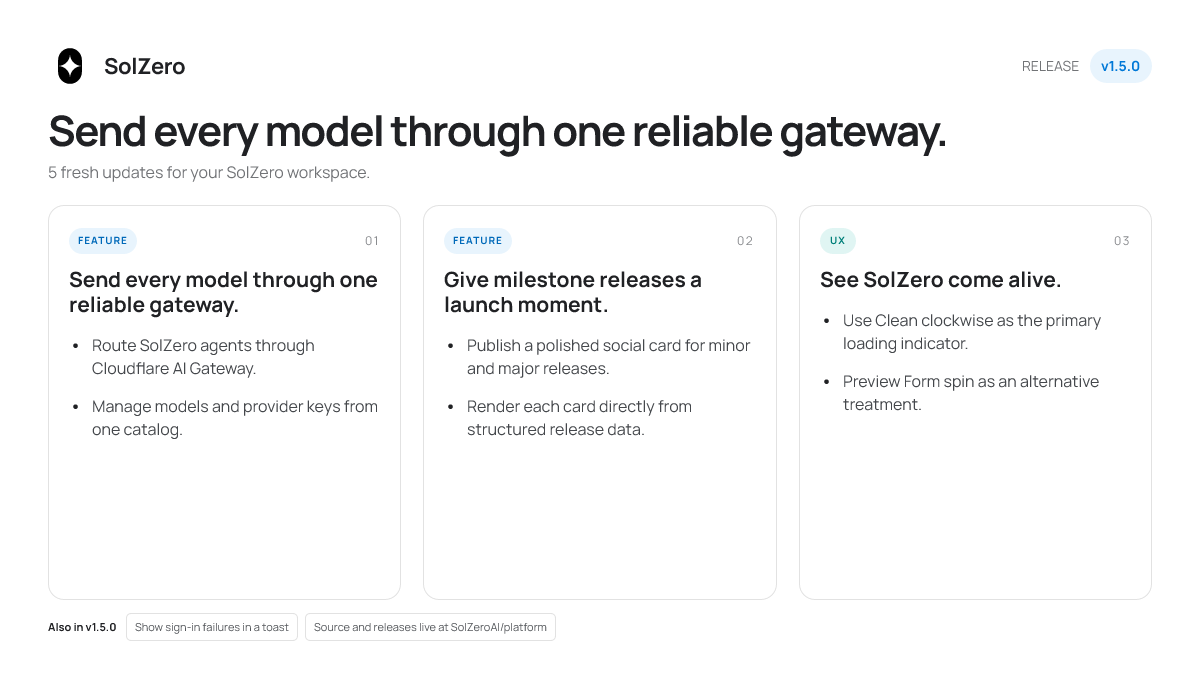
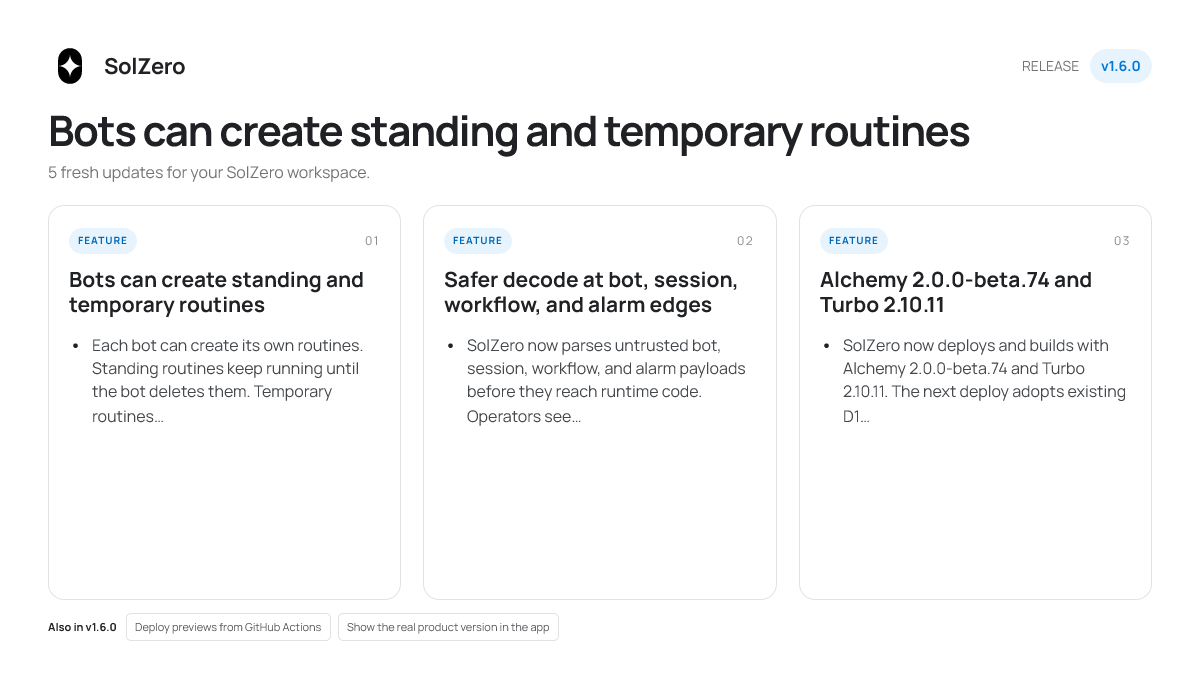
Version Packages

diff --git a/CHANGELOG.md b/CHANGELOG.md
@@ -1,3 +1,40 @@
+## solzero@1.6.0
+
+### Bots can create standing and temporary routines
+
+Each bot can create its own routines. Standing routines keep running until the bot deletes them. Temporary routines watch finite work such as pull request checks and are deleted when that work is done or when the deadline passes.
+
+### Safer decode at bot, session, workflow, and alarm edges
+
+SolZero now parses untrusted bot, session, workflow, and alarm payloads before they reach runtime code. Operators see safer decode of stored rows, manifests, and artifact metadata.
+
+### Alchemy 2.0.0-beta.74 and Turbo 2.10.11
+
+SolZero now deploys and builds with Alchemy 2.0.0-beta.74 and Turbo 2.10.11. The next deploy adopts existing D1 migration history into Alchemy's migration table. Operators do not need a special action beyond that deploy.
+
+### Deploy previews from GitHub Actions
+
+The new `Deploy Preview` workflow deploys the `pre` stage on each merge to `master`. Each pull
+request deploys an ephemeral `pre-<number>` stage and posts its preview URL as a pull request
+comment. The workflow destroys the ephemeral stage when the pull request closes. A manual dispatch
+input removes an orphaned `pre-*` stage.
+
+The `Release` workflow now starts after `Deploy Preview` succeeds on `master`. Deployment operators
+must set the GitHub `pre` environment secrets and the repository Cloudflare secrets. Run
+`nub run github:sync-env-secrets` to upload them.
+
+### Show the real product version in the app
+
+The web sidebar and the API health endpoint now display the product version from the repository
+`VERSION` file, followed by the short commit hash of the deployed build, for example
+`v1.5.0-036d0b`. Deployments previously displayed `v0.0.0` because they read the placeholder
+workspace package version.
+
+A build that contains commits after the release tag also shows the unreleased commit count, for
+example `v1.5.0+2-bbb222`. A build deployed from the release tag itself, such as a production
+deployment, keeps the plain `v1.5.0-036d0b` form. The count needs the release tag and full history
+in the deploy checkout; without them the label omits the count.
+
 ## solzero@1.5.0
 
 ### Route model traffic through Cloudflare AI Gateway
